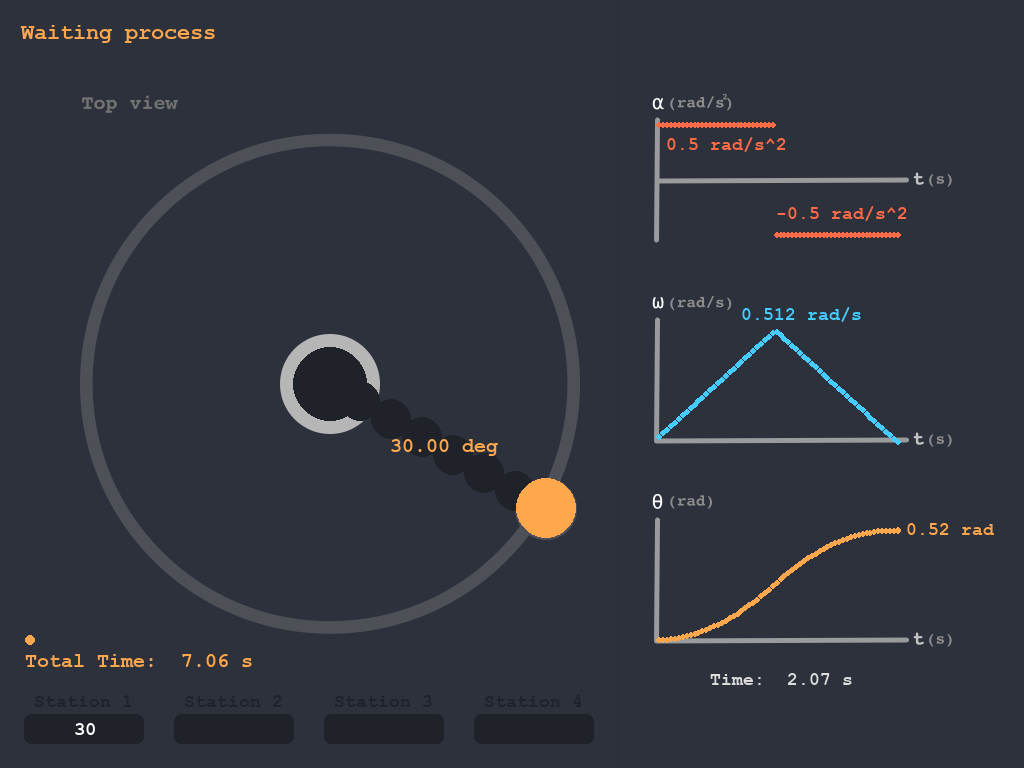
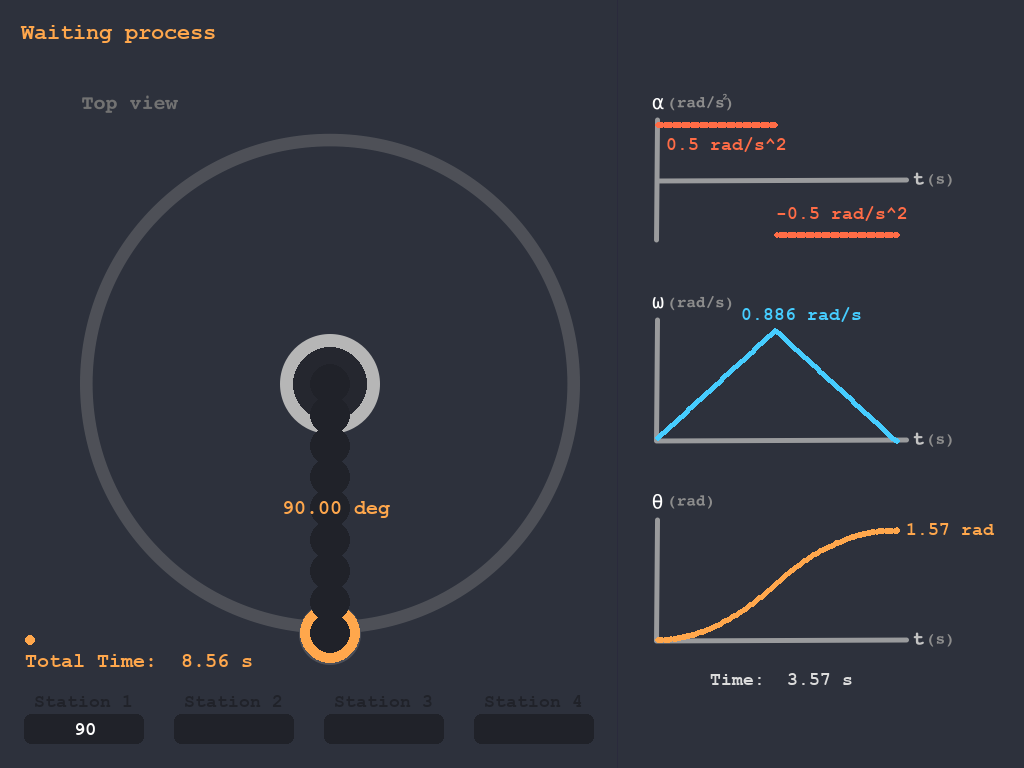
v3.0
added plot matplotlib

diff --git a/Module3Simulation.py b/Module3Simulation.py
@@ -34,7 +34,7 @@ COLOR = {
     'BLUE'      : ( 70, 205, 255),
     'YELLOW'    : (255, 208,  54),
     'YELLOW1'   : (223, 182,  49),
-    'GRAY9'     : ( 40,  42,  60),
+    'GRAY9'     : ( 37,  39,  47),
     'BLACK'     : ( 32,  34,  41), 
     'BACKGROUND': ( 45,  49,  60)
 }
@@ -334,22 +334,22 @@ class Simulation:
                 link_length_target = [self.radius*math.cos(DtoR(each_input_box.getValue())), self.radius*math.sin(DtoR(each_input_box.getValue()))]
                 screen.blit(IMAGE['TARGET'][i], (self.center[0] + link_length_target[0] -40, self.center[1] + link_length_target[1] -40))
     
-    def drawEndEffector(self, linkstyle=7):
+    def drawEndEffector(self, linkstyle=8):
         # screen.blit(FONT(18).render("current position: {:6.2f} deg".format(self.theta[0]), True, COLOR['WHITE']), (20, 50))
         
+        # draw end-effector
+        pg.draw.circle(screen, COLOR['ORANGE'], (int(self.end_effector[0]), int(self.end_effector[1])), 30)
+        # draw center
+        pg.draw.circle(screen, COLOR['GRAY9'], self.center, 37)
         # draw link
         # (version1)
         # pg.draw.line(screen, COLOR['YELLOW'], self.center, (int(self.end_effector[0]), int(self.end_effector[1])), 30)
         # (version2)
-        for i in range(1, linkstyle+1):
+        for i in range(linkstyle+1):
             pg.draw.circle(screen, COLOR['BLACK'], (
                 int(self.end_effector[0] -(i/linkstyle)* self.link_length[0]),
                 int(self.end_effector[1] -(i/linkstyle)* self.link_length[1])
             ), 20)
-        # draw center
-        pg.draw.circle(screen, COLOR['BLACK'], self.center, 37)
-        # draw end-effector
-        pg.draw.circle(screen, COLOR['ORANGE'], (int(self.end_effector[0]), int(self.end_effector[1])), 30)
         # draw value(theta) display
         text = FONT(20).render("{:6.2f} deg".format(self.theta[0]), True, COLOR['ORANGE'])
         rect = text.get_rect()

diff --git a/test.py b/test.py
@@ -1,2 +1,22 @@
-s = '.123'
-print(s[0].isnumeric() or s[-1].isnumeric())
+# import time
+# import sys
+
+# toolbar_width = 40
+
+# # setup toolbar
+# sys.stdout.write("[%s]" % (" " * toolbar_width))
+# sys.stdout.flush()
+# sys.stdout.write("\b" * (toolbar_width+1)) # return to start of line, after '['
+
+# for i in range(toolbar_width):
+#     time.sleep(0.1) # do real work here
+#     # update the bar
+#     sys.stdout.write("-")
+#     sys.stdout.flush()
+
+# sys.stdout.write("]\n") # this ends the progress bar
+
+from time import sleep
+from tqdm import tqdm
+for i in tqdm(range(10)):
+    sleep(3)

diff --git a/Module3SimulationPlot.py b/Module3SimulationPlot.py
@@ -1,0 +1,18 @@
+# Module3 (FRA262) Simulation Plot using matlab
+
+import math
+def RtoD(radian): return radian*180/math.pi
+def DtoR(degree): return degree/180*math.pi
+
+import matplotlib.pyplot as plt
+import numpy as np
+
+time = np.array([])
+alpha = np.array([])
+omega = np.array([])
+theta = np.array([])
+
+# for t in range(0)
+
+# plt.plot(xpoints, ypoints)
+# plt.show()
